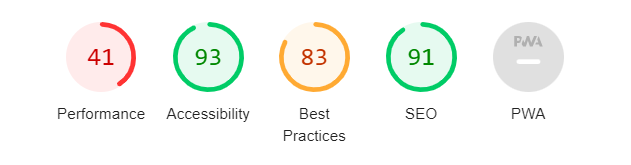
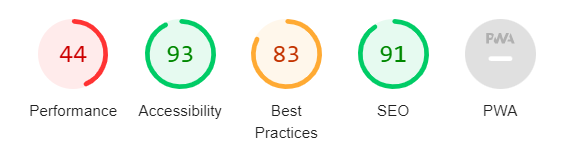
Add content to README.md and TESTING.md and images

diff --git a/shop/templates/shop/shop.html b/shop/templates/shop/shop.html
@@ -14,7 +14,7 @@
          <button data-chocolate={{chocolate.id}} data-action="add" class="btn btn-outline-dark add-btn update-basket">Add to Basket</button>
          {% endif %}
          <a class="btn btn-outline-dark" href="chocolate_page/{{chocolate.id}}">View</a>
-         <h4 style="display: inline-block; float: right"><strong>€{{chocolate.price|floatformat:2}}</strong></h4>
+         <h4 style="float: right"><strong>€{{chocolate.price|floatformat:2}}</strong></h4>
          {% if user.is_superuser %}
          <a class="btn btn-outline-dark" href="add_chocolate/">Add new</a>
          <a class="btn btn-outline-dark" href="edit_chocolate/{{chocolate.id}}">Edit</a>

diff --git a/shop/templates/shop/chocolate_page.html b/shop/templates/shop/chocolate_page.html
@@ -10,7 +10,7 @@
       <button data-chocolate={{chocolate.id}} data-action="add" class="btn btn-outline-dark add-btn update-basket">Add to Basket</button>
       {% endif %}
       <button type="button" value="Go back!" onclick="history.back()" class="btn btn-outline-dark">Go back</button>
-      <h4 style="display: inline-block; float: right"><strong>€{{chocolate.price|floatformat:2}}</strong></h4>
+      <h4 style="float: right"><strong>€{{chocolate.price|floatformat:2}}</strong></h4>
       <p><strong>{{chocolate.description}}</strong></p>
    </div>
 </div>

diff --git a/art_of_chocolate/settings.py b/art_of_chocolate/settings.py
@@ -17,7 +17,7 @@ TEMPLATES_DIR = os.path.join(BASE_DIR, 'templates')
 SECRET_KEY = os.environ.get("SECRET_KEY")
 
 
-#DEBUG = os.environ.get("DEBUG", True)
+DEBUG = os.environ.get("DEBUG", True)
 
 ALLOWED_HOSTS = ['art-of-chocolate.herokuapp.com', 'localhost']
 

diff --git a/TESTING.md b/TESTING.md
@@ -4,7 +4,6 @@ Return to the [README.md](README.md)
 
 ## Validator testing and browser compatibility
 
-
 - I have tested Python code with - [PEP8 validator](http://pep8online.com/)
 
 ![python problems](media/testing/python_errors.png)
@@ -37,26 +36,30 @@ NEED TO ADD
 
 
 ## Accessibility
-- I have confirmed that the Website is accessible by inspecting it in Lighthouse on the [Google Chrome](https://www.google.com/chrome/?brand=FKPE&gclid=EAIaIQobChMIqOPWwuu69AIVFeDtCh1CEgKGEAAYASAAEgKvwvD_BwE&gclsrc=aw.ds) Dev tools.
+I have confirmed that the Website is accessible by inspecting it in Lighthouse on the [Google Chrome](https://www.google.com/chrome/?brand=FKPE&gclid=EAIaIQobChMIqOPWwuu69AIVFeDtCh1CEgKGEAAYASAAEgKvwvD_BwE&gclsrc=aw.ds) Dev tools.
     
 Result for desktop 
  - Performance for the desktop version 
 
 ![lighthouse desktop](media/testing/desktop_low_lighthouse.png)
 
+ - Increased parameters.
 
 ![checkout problem resolved](media/testing/desktop_performance_increased.png)
 
+ - Future implementation to improve best practices : Resizing images.
+ - Tried removing Javascript from base.html and CSP added as meta tag but result for Best Practices dicreased.
+![best practices](media/testing/best_practices.png)
+
 Result for mobile devices
 - Performance for mobile devices 
+![lighthouse mobile](media/testing/best_practices.png)
 
 
 ## Bugs
 
 ### Solved
-- All problems from [Gitpod](https://www.gitpod.io/) from the image have been resolved. Most of them were indentation bugs and lines of code too long.
-
-![solved bugs]
+All problems from [Gitpod](https://www.gitpod.io/) have been resolved. Most of them were Python related, indentation bugs and lines of code too long.
 
 - Attribute error - resolved by removing shop app name from the apps list.
 
@@ -69,7 +72,6 @@ Result for mobile devices
 - ProgrammingError at - Models were updated but migration was not done. Resolved by making migrations and migrating new models added.
 
 ![solved bugs programming error](media/testing/programming_error.png)
-
 
 - IndentationError - Migration was not processing due to incorrect indentationt, indentation corrected to resolve the issue.
 
@@ -94,14 +96,17 @@ Result for mobile devices
 
 ### STRIPE payment testing
 
-- I have tested Stripe payment with card provided in Stripe documents.
+- I have tested Stripe payment with card provided in Stripe documentation.
 
-![stripe payment testing card](media/testing/stripe_card_testing.png)
+![stripe payment testing card](media/stripe/stripe_card_testing.png)
 
-![stripe payment testing payment](media/testing/stripe_payment_testing.png)
+![stripe payment testing payment](media/stripe/stripe_payment.png)
 
+![stripe payment url confirmation](media/stripe/order_confirmation_page.png)
 
+![order email confirmation](media/stripe/email_confirmation.png)
 
+![inbox email confirmation](media/stripe/inbox.png)
 
 
 ### E-mail verification when signing up
@@ -110,7 +115,9 @@ Result for mobile devices
 
 ![verification local](media/testing/verification_local_test.png)
 
+- Processing payment
 ![verification deployed](media/testing/verification_deployed_test.png)
+
 
 ### Unsolved bugs
 - Unsolved problem which relates to ms-toolsai.jupyter extension not bein synched and not added in .gitpod.yml. I have checked Slack community and this is known issue which we can ignore.
@@ -118,5 +125,7 @@ Result for mobile devices
 
 
 ### Django Administration testing
-- I have tested Django Administration,
+- I have tested Django Administration and all is working as it should. All data is storing as intended.
+
+![django test](media/testing/django_test.png)
 

diff --git a/README.md b/README.md
@@ -38,7 +38,7 @@ You can access live page to Art Of Chocolate by clicking [here](https://art-of-c
 
 # Business Model
 
-Art Of Chocolate is a B2C business supporting the end consumer. The site gives User option to interact with central dataset, choose and purchase products and process payment with Stripe. Users can sign-up to Art Of Chocolate Newsletter. Full CRUD functionality is available to the user.
+Intention behind creating Art Of Chocolate website is incresing amount of diversity in chocolate tastes. Art Of Chocolate is a B2C business supporting the end consumer. The site gives User option to interact with central dataset, choose and purchase products and process payment with Stripe. Users can sign-up to Art Of Chocolate Newsletter. Full CRUD functionality is available to the user.
 
 
 # User Experience
@@ -76,9 +76,9 @@ Anonymous and Registered Users do not have access to add, edit or delete product
 
 - Shipping form, Newsletter Mailchimp form and Contact Us form require all input data, they restrict Users to proceed if any of the fields are empty.
 
-### Env.py file
+### Data and Env.py file
 
-- All Secret Keys, API's, Database Url and E-mail were stored within env.py file to secure unwanted access.
+- All data, Secret Keys, API's, Database Url and E-mail were stored within env.py file to secure unwanted access.
 
 ### 404 page
 
@@ -316,6 +316,13 @@ Further keywords research done :
 [Google](https://www.google.com/) - Search for wordkey "chocolate"
 
 ![google search](media/seo/google_search.png)
+
+
+### Sitemap and robots.txt
+
+![XML-Sitemaps](https://www.xml-sitemaps.com/) was used to create sitemap.txt file so that search engines can navigate through the site easily.
+
+Robots.txt file iwas created to improve SEO by not allowing search engines to access particular parts of the website.
 
 
 ### Mailchimp
